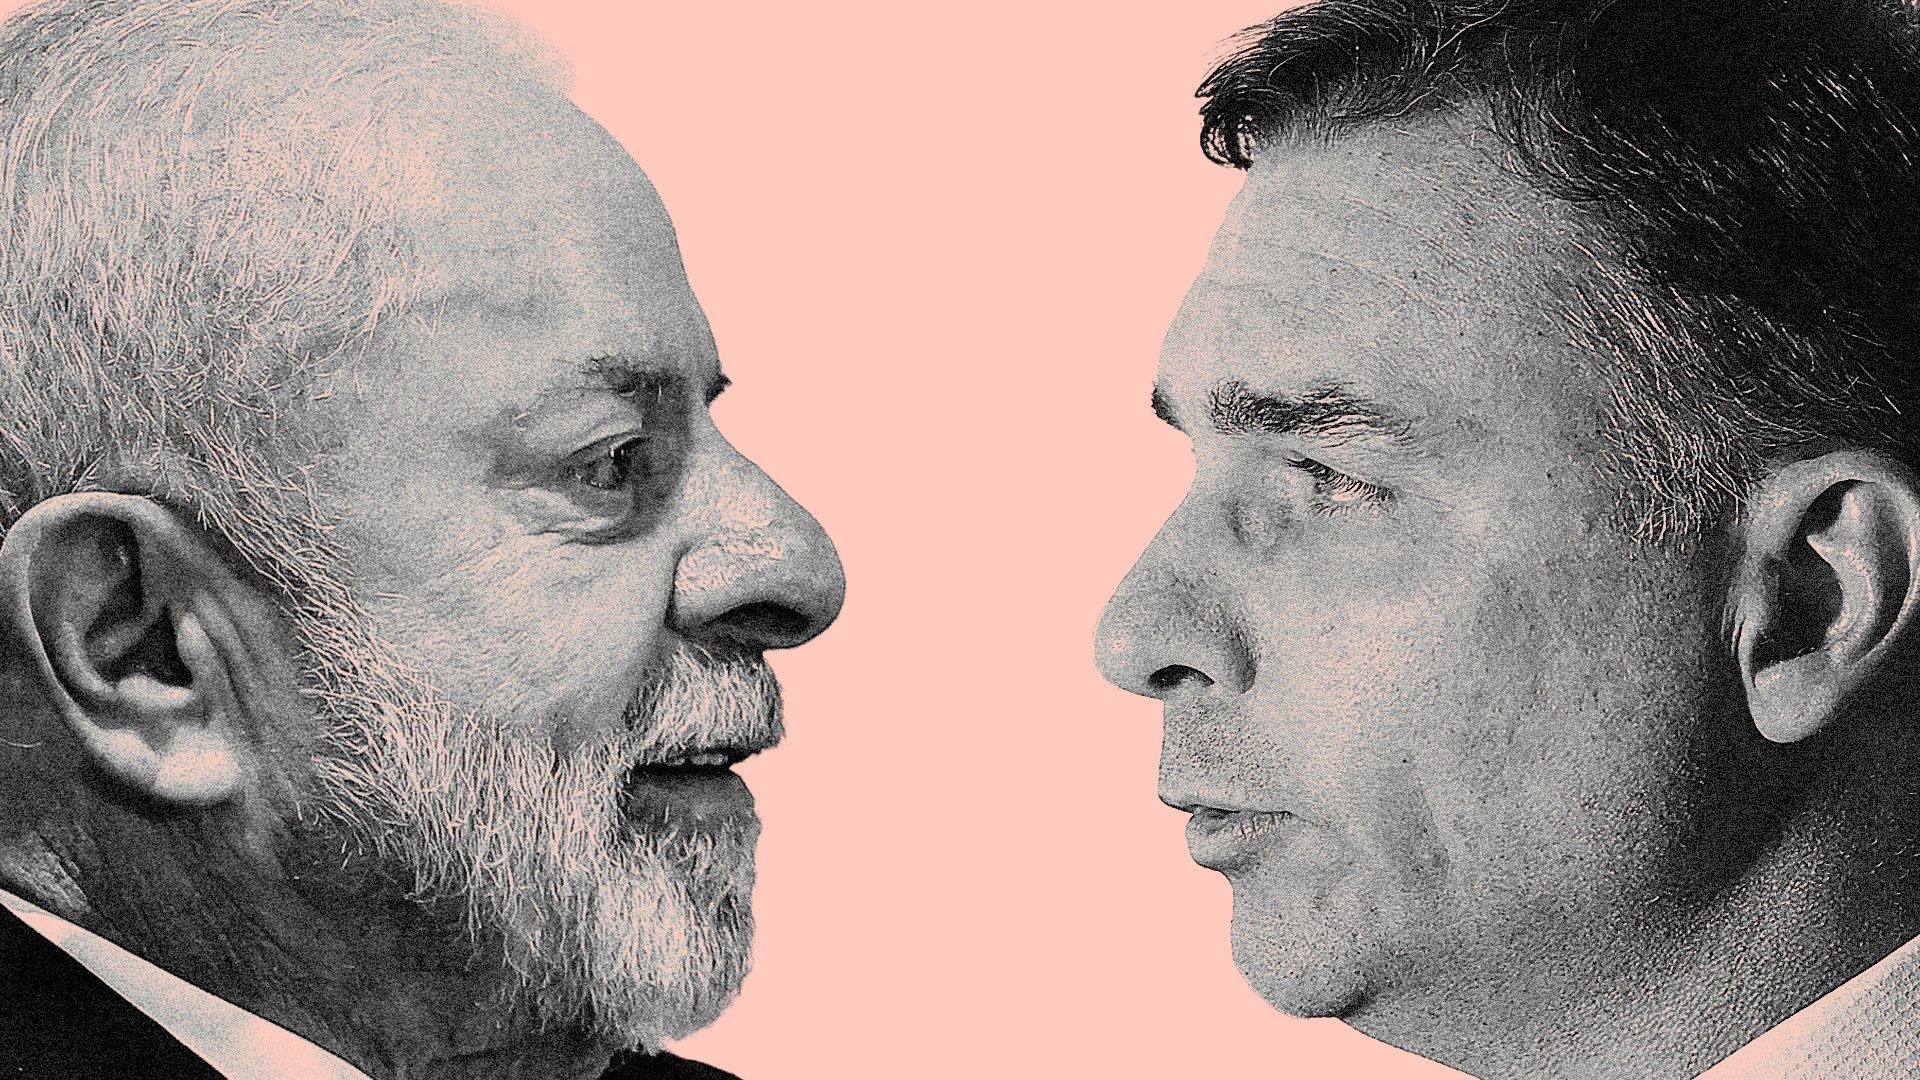
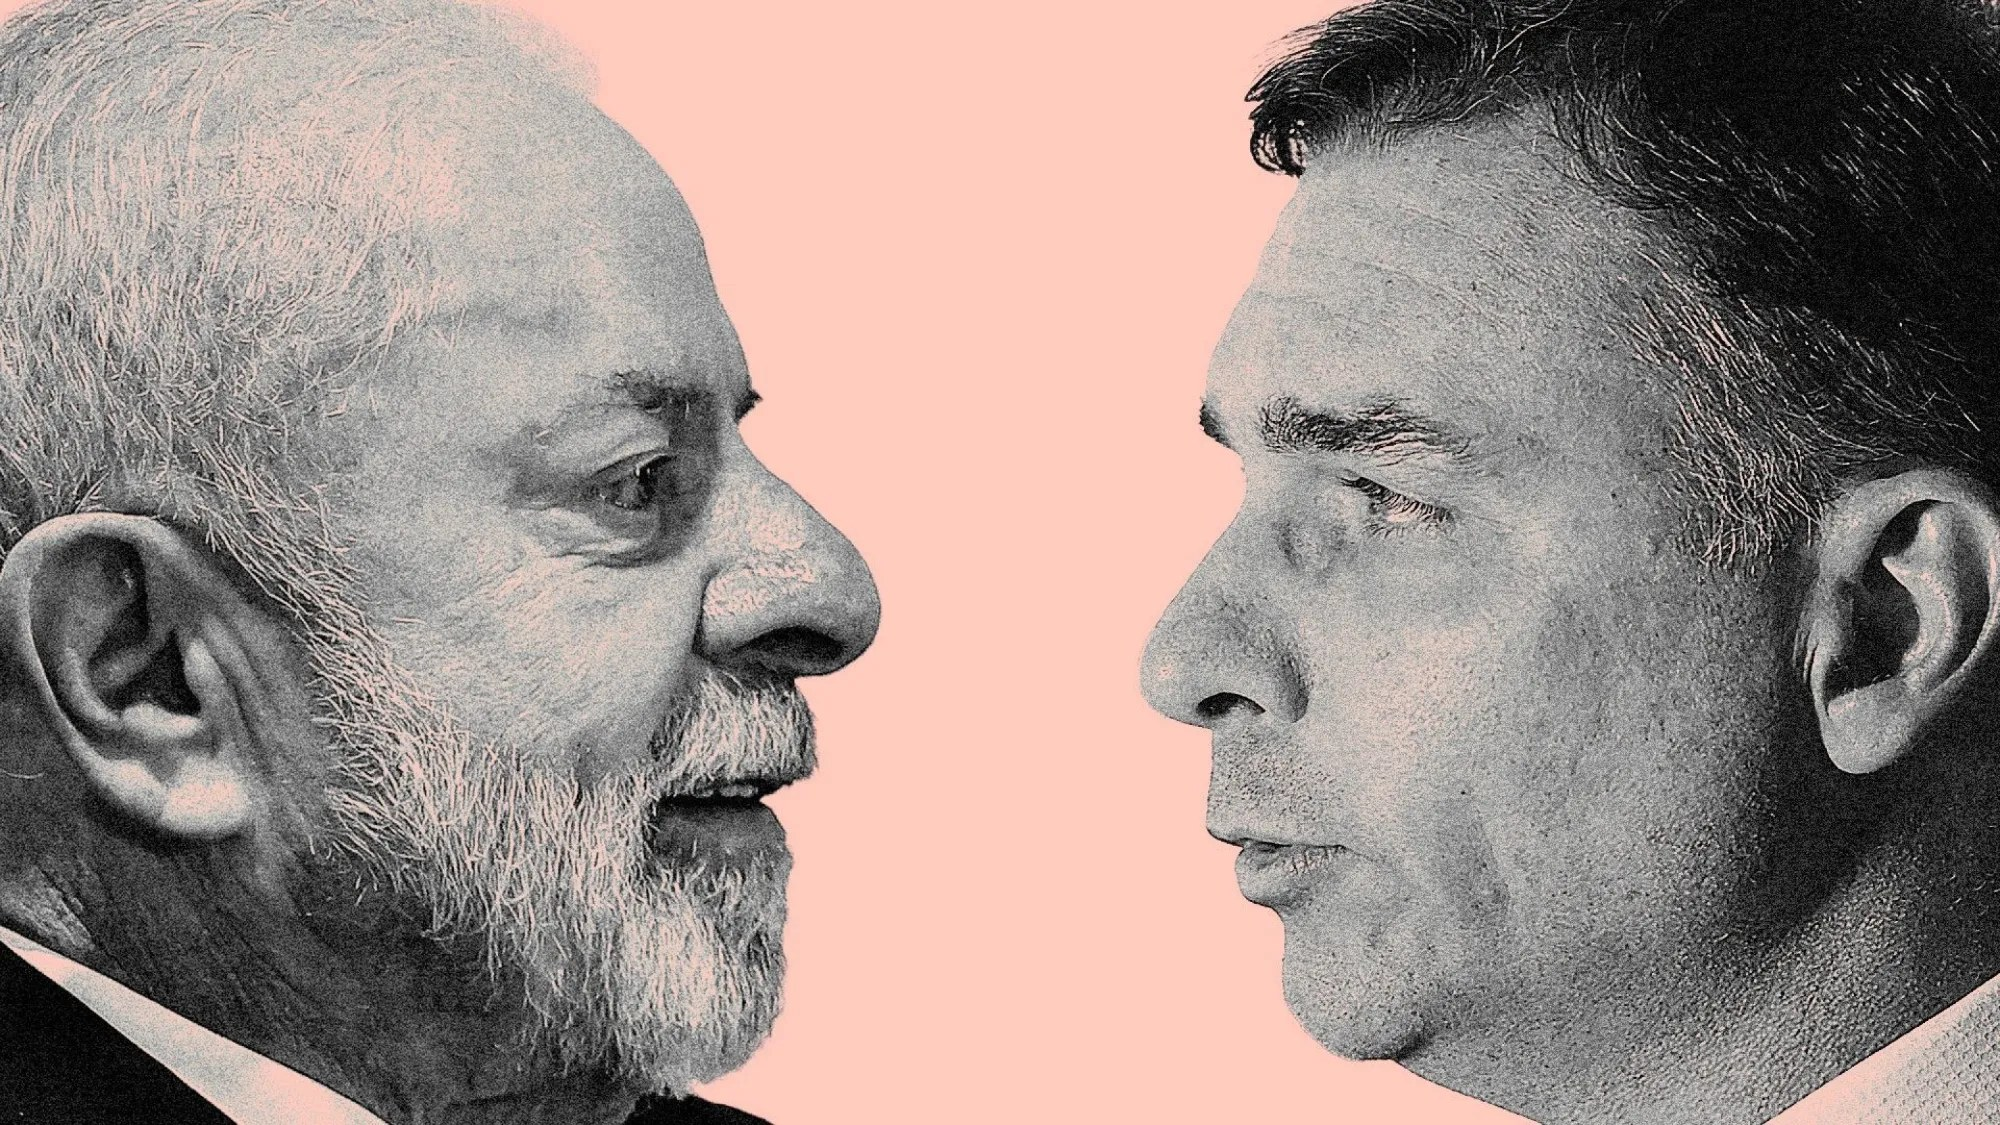
fix: usa as fotos originais e aplica o tom de cor nos retratos

diff --git a/src/components/sections/perfis/profile-panel.tsx b/src/components/sections/perfis/profile-panel.tsx
@@ -5,6 +5,7 @@ const styles = {
   lula: {
     panel: "bg-lula text-lula-tint",
     pad: "md:pl-[104px] md:pr-12",
+    tint: "bg-lula/30",
     plate:
       "bg-lula left-0 font-lula text-[clamp(56px,8vw,96px)] leading-[0.92] tracking-[0.5px] text-white",
     heading: "font-lula text-[28px] leading-none tracking-[0.5px] text-white",
@@ -16,6 +17,7 @@ const styles = {
   flavio: {
     panel: "bg-flavio text-flavio-tint",
     pad: "md:pl-12 md:pr-[104px]",
+    tint: "bg-flavio/45",
     plate:
       "bg-flavio right-0 font-flavio text-[clamp(44px,6vw,72px)] font-black italic leading-none tracking-[-1px] text-white",
     heading:
@@ -67,6 +69,10 @@ export function ProfilePanel({ profile }: { profile: ProfileData }) {
           fill
           sizes="(min-width: 768px) 50vw, 100vw"
           className="object-cover object-top"
+        />
+        <div
+          aria-hidden="true"
+          className={`absolute inset-0 mix-blend-multiply ${tone.tint}`}
         />
         <h3
           className={`absolute bottom-0 px-6 pb-3 pt-4 uppercase md:px-8 ${tone.plate}`}
